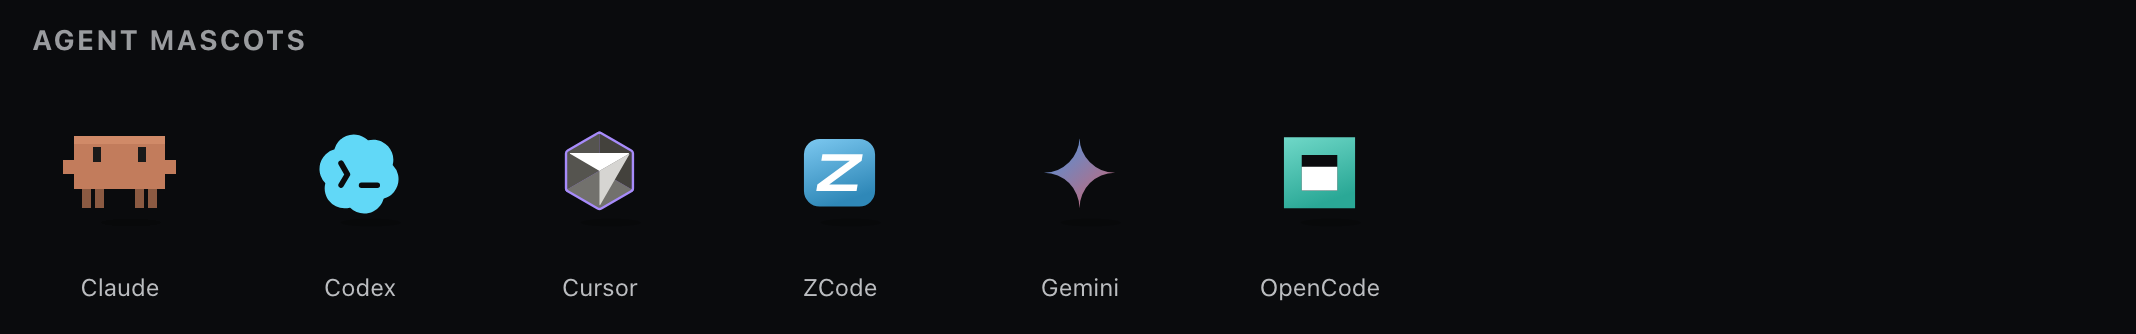
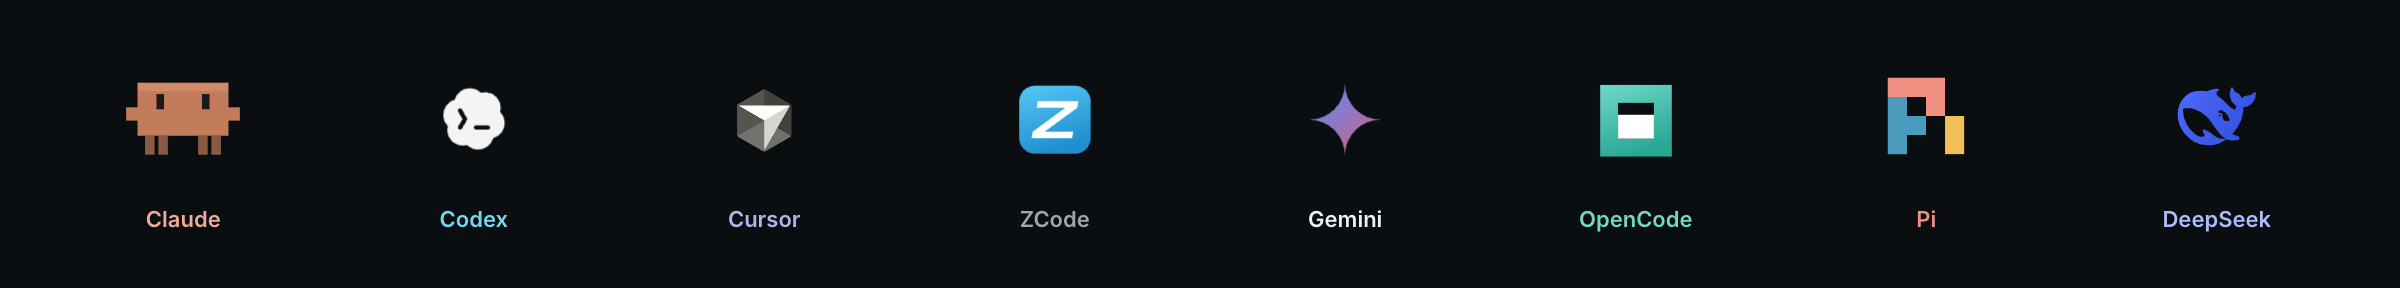
docs: add Pi and DeepSeek to website

diff --git a/docs/index.html b/docs/index.html
@@ -4,13 +4,13 @@
   <meta charset="UTF-8" />
   <meta name="viewport" content="width=device-width, initial-scale=1.0" />
   <title>Atoll — 菜单栏 AI 工作流浮岛</title>
-  <meta name="description" content="Atoll 住在 macOS 菜单栏 / Windows 顶栏，为 Claude Code、Codex、Cursor、ZCode、Gemini CLI 与 OpenCode 提供权限审批、审批规则引擎、通知提醒、Plan 模式交互、Subagent 追踪与 Token 用量统计。100% 本地，数据不出本机。" />
+  <meta name="description" content="Atoll 住在 macOS 菜单栏 / Windows 顶栏，为 Claude Code、Codex、Cursor、ZCode、Gemini CLI、OpenCode、Pi 与 DeepSeek Harness 带来本地 AI 工作流。支持能力因 Agent 而异。" />
   <meta name="theme-color" content="#0a0b0d" />
 
   <!-- Open Graph -->
   <meta property="og:type" content="website" />
   <meta property="og:title" content="Atoll — 菜单栏 AI 工作流浮岛" />
-  <meta property="og:description" content="本地 Coding Agent 工作流浮岛：权限审批、审批规则引擎、通知提醒、Plan 模式问答与构建确认、Subagent 追踪、Token 统计。支持 Claude Code / Codex / Cursor / ZCode / Gemini CLI / OpenCode。" />
+  <meta property="og:description" content="本地 Coding Agent 工作流浮岛。支持 Claude Code / Codex / Cursor / ZCode / Gemini CLI / OpenCode / Pi / DeepSeek Harness。" />
   <meta property="og:image" content="https://sheepbooy.github.io/Atoll/assets/hero.png" />
   <meta property="og:url" content="https://sheepbooy.github.io/Atoll/" />
 
@@ -24,12 +24,12 @@
   <link rel="preconnect" href="https://fonts.googleapis.com" />
   <link rel="preconnect" href="https://fonts.gstatic.com" crossorigin />
   <link href="https://fonts.googleapis.com/css2?family=Inter:wght@400;500;600;700;800&family=JetBrains+Mono:wght@400;500&display=swap" rel="stylesheet" />
-  <link rel="stylesheet" href="css/mascots.css?v=133d240e55" />
+  <link rel="stylesheet" href="css/mascots.css?v=pi-dsh-1" />
   <link rel="stylesheet" href="css/atoll-logo.css?v=5eb4b17fe2" />
-  <link rel="stylesheet" href="css/site.css?v=7dc29db49a" />
+  <link rel="stylesheet" href="css/site.css?v=pi-dsh-1" />
   <script defer src="js/atoll-logo.js?v=a7b0347ddb"></script>
   <script defer src="js/cursor-mascot.js?v=0d06122c97"></script>
-  <script defer src="js/agent-mascots.js?v=4aa9e142ea"></script>
+  <script defer src="js/agent-mascots.js?v=pi-dsh-1"></script>
   <script defer src="js/site.js?v=50ce54d311"></script>
 </head>
 <body>
@@ -88,7 +88,7 @@
         <noscript><p class="noscript-note">交互演示需要 JavaScript；下方可阅读全部功能与安装说明。</p></noscript>
       </div>
     </header>
-    <div class="container agent-strip"><span>与你熟悉的 Agent，一起工作</span><div><span>Claude Code</span><span>Codex</span><span>Cursor</span><span>ZCode</span><span>Gemini CLI</span><span>OpenCode</span></div></div>
+    <div class="container agent-strip"><span>与你熟悉的 Agent，一起工作</span><div><span>Claude Code</span><span>Codex</span><span>Cursor</span><span>ZCode</span><span>Gemini CLI</span><span>OpenCode</span><span>Pi</span><span>DeepSeek Harness</span></div></div>
     <section class="container section" id="features">
       <div class="section-heading reveal"><span class="section-label">01 / STAY IN FLOW</span><h2>工作向前，<br /><span class="muted">注意力不必来回。</span></h2><p>从一个权限请求，到一个完整计划。<br />浮岛把需要你的时刻，带到你眼前。</p></div>
       <div class="workflow-grid">
@@ -118,7 +118,7 @@
       </div>
       <details class="platform-detail"><summary>查看固定场景 CPU 对照 <span aria-hidden="true">+</span></summary><div class="detail-copy">同一台 Mac 每组预热 30 秒、采样 60 秒，折叠且无交互：空闲 0.893% → 0.302%，一个工作会话 3.888% → 0.367%，音乐播放与歌词启用 0.818% → 0.318%。CPU 为主进程与所属 WebKit 合计，100% 表示一个核心；音乐适配器另计约 0.075%。<br /><br />这是关闭后台维护、固定会话状态的受控对照。刘海屏折叠态不显示歌词，结果不能直接推算真实任务全程耗电或电池续航。<a class="text-link" href="https://github.com/sheepbooy/Atoll/blob/main/docs/energy-benchmark.md" target="_blank" rel="noopener">查看方法与原始数据 ↗</a></div></details>
     </section>
-    <section class="container section" id="agents"><div class="section-heading reveal"><span class="section-label">03 / BETTER TOGETHER</span><h2>你的 Agent，<br /><span class="muted">熟悉的工作方式。</span></h2><p>在应用内安装对应 Hook，即可接入。<br />每个 Agent 的支持能力，都清楚写在这里。</p></div><div class="agent-cards">
+    <section class="container section" id="agents"><div class="section-heading reveal"><span class="section-label">03 / BETTER TOGETHER</span><h2>你的 Agent，<br /><span class="muted">熟悉的工作方式。</span></h2><p>在应用内安装对应 Hook 或桥接，即可接入。<br />每个 Agent 的支持能力，都清楚写在这里。</p></div><div class="agent-cards">
           <article class="agent-card">
             <img src="assets/agent-claude.png" alt="Claude" width="48" height="48" />
             <div>
@@ -170,7 +170,15 @@
               <h3>OpenCode</h3>
               <p>Settings → Agent hooks → Install OpenCode。OpenCode 没有 hooks 配置文件——Atoll 在其插件目录部署进程内桥接插件；Atoll 不在线时 OpenCode 自带确认自动兜底。</p>
             </div>
-          </article></div><details class="platform-detail"><summary>开发版：确认真实连接 <span aria-hidden="true">+</span></summary><div class="detail-copy">安装后点击「验证连接」，按需信任 Hook 并重启对应 Agent，再发送消息或触发工具。新的真实事件才会点亮成功标记；旧活动不会自动完成验证，重新安装后需要重新验证。Atoll 自带 Node.js 运行时，系统没有 Node 也无需另行安装。</div></details><details class="setup-details"><summary>查看首次接入演示 <span>+</span></summary><div class="product-media"><img src="assets/setup.gif" alt="首次安装 Hook 的操作演示" loading="lazy" /><span class="media-fallback" hidden>首次安装 Hook 的操作演示</span></div></details></section>
+          </article>
+          <article class="agent-card">
+            <div class="agent-card-mascot" aria-hidden="true"><span class="mascot-slot" data-agent="pi"></span></div>
+            <div><h3>Pi（CLI）</h3><p>Settings → Agent hooks → Install Pi。全局扩展拦截 bash、write、edit 等工具，同步会话与 Token；安装后重启 Pi。Atoll 离线时交互界面询问，非交互模式默认拒绝。</p></div>
+          </article>
+          <article class="agent-card">
+            <div class="agent-card-mascot" aria-hidden="true"><span class="mascot-slot" data-agent="dsh"></span></div>
+            <div><h3>DeepSeek Harness（Web + Desktop）</h3><p>Settings → Agent hooks → Install DeepSeek Harness。桥接插件支持审批与会话状态，安装后重启 DSH；Atoll 离线时回退原生审批。Token、聊天记录与子 Agent 暂不支持。</p></div>
+          </article></div><details class="platform-detail"><summary>确认真实连接 <span aria-hidden="true">+</span></summary><div class="detail-copy">安装后点击「验证连接」，按需信任 Hook 并重启对应 Agent，再发送消息或触发工具。新的真实事件才会点亮成功标记；旧活动不会自动完成验证，重新安装后需要重新验证。Atoll 自带 Node.js 运行时，系统没有 Node 也无需另行安装。</div></details><details class="setup-details"><summary>查看首次接入演示 <span>+</span></summary><div class="product-media"><img src="assets/setup.gif" alt="首次安装 Hook 的操作演示" loading="lazy" /><span class="media-fallback" hidden>首次安装 Hook 的操作演示</span></div></details></section>
     <section class="container section" id="architecture"><div class="privacy-card reveal"><div><span class="section-label">LOCAL BY DESIGN</span><h2>你的工作，<br />留在你的电脑里。</h2><p>Agent、Hook 与浮岛通过本机桥接通信。<br />会话内容与审批数据留在本地。</p><div class="privacy-badges"><span>本地桥接</span><span>开源可审查</span><span>无追踪</span></div></div><div class="bridge-diagram" role="img" aria-label="Agent 通过 Hook 与本地 Bridge 通信，浮岛回传决定"><div class="bridge-node"><span>01</span><strong>Coding Agent</strong><small>发起事件</small></div><div class="bridge-connector">↓ <code>127.0.0.1:47777</code></div><div class="bridge-node"><span>02</span><strong>Hook → Local Bridge</strong><small>维护会话与工作状态</small></div><div class="bridge-connector">↓ <span>你的决定，原路返回</span></div><div class="bridge-node"><span>03</span><strong>Atoll Island</strong><small>审批 · 计划 · 任务</small></div></div></div><details class="platform-detail"><summary>了解本地工作原理 <span>+</span></summary><div class="detail-copy">Hook shim 写入 Agent 配置，通过 Node.js 向 Rust 本地 HTTP bridge 发送事件。浮岛读取会话、Subagent 与 Token 状态，再将你的决定回传 Agent。所有工作流数据在本机闭环；应用更新、安装下载等操作会访问网络。Atoll 不替代 Agent，也不上传会话内容。</div></details></section>
     <section class="container section" id="install"><div class="install-layout"><div class="section-heading reveal"><span class="section-label">04 / MAKE IT YOURS</span><h2>给顶栏，<br /><span class="muted">一个新的住客。</span></h2><p>一行命令安装，几步完成接入。<br />下一次 Agent 需要你，浮岛就在那里。</p><a class="text-link" href="https://github.com/sheepbooy/Atoll/releases" target="_blank" rel="noopener">从 Releases 手动下载 <svg viewBox="0 0 24 24" fill="none" stroke="currentColor" stroke-width="1.6" stroke-linecap="round" stroke-linejoin="round" aria-hidden="true"><path d="M7 17 17 7M7 7h10v10"/></svg></a></div><div class="install-panel reveal">
         <div class="install-tabs" role="tablist">
@@ -311,6 +319,14 @@
             <figure class="agent-mascot-card" data-agent="opencode">
               <div class="agent-mascot-slot" data-agent="opencode"></div>
               <figcaption>OpenCode</figcaption>
+            </figure>
+            <figure class="agent-mascot-card" data-agent="pi">
+              <div class="agent-mascot-slot" data-agent="pi"></div>
+              <figcaption>Pi</figcaption>
+            </figure>
+            <figure class="agent-mascot-card" data-agent="dsh">
+              <div class="agent-mascot-slot" data-agent="dsh"></div>
+              <figcaption>DeepSeek</figcaption>
             </figure>
           </div>
         </div></div></section>

diff --git a/docs/css/site.css b/docs/css/site.css
@@ -231,7 +231,7 @@ details[open]>summary { color:var(--text-primary); }details[open]>summary>span {
 .battery-glyph>svg { width:18px; height:18px; transform:none; }
 .battery-ring figcaption { font-size:10px; color:var(--text-tertiary); text-align:center; }.battery-ring figcaption strong { display:block; color:var(--text-secondary); font-size:11px; font-weight:500; }
 .everyday-utilities { margin-top:18px; }
-.agent-cards { display:grid; grid-template-columns:repeat(3,minmax(0,1fr)); gap:16px; }
+.agent-cards { display:grid; grid-template-columns:repeat(4,minmax(0,1fr)); gap:16px; }
 .agent-card { min-width:0; border:1px solid var(--border-subtle); border-radius:13px; background:#ffffff02; padding:26px; }
 .agent-card>img,.agent-card-mascot { width:40px; height:40px; object-fit:contain; margin-bottom:20px; }
 .agent-card-mascot { display:flex; align-items:center; justify-content:center; }
@@ -261,7 +261,7 @@ details[open]>summary { color:var(--text-primary); }details[open]>summary>span {
 .atoll-logo-slot { display:inline-flex; width:96px; height:96px; align-items:center; justify-content:center; }.atoll-logo-slot .atoll-logo { width:100%; height:100%; }.atoll-logo-slot svg { width:100%; height:100%; }
 .state-item>.label { font-size:12px; margin-top:5px; }.state-item>.desc { text-align:center; color:var(--text-tertiary); font-size:9px; margin-top:5px; }
 .egg-grid { margin-top:12px; grid-template-columns:repeat(6,minmax(0,1fr)); }.egg-grid .state-item { padding:12px 8px 20px; }.egg-grid .state-mascot { width:86px; height:86px; }
-.mascots { margin-top:30px; }.agent-mascot-grid { padding:25px; display:grid; grid-template-columns:repeat(6,minmax(0,1fr)); gap:12px; margin-bottom:0; background:none; border:0; }.agent-mascot-card { min-width:0; }.agent-mascot-card figcaption { color:var(--text-secondary); font-size:11px; }.agent-mascot-slot { width:72px; height:65px; }.agent-mascot-slot>span { width:100% !important; height:100% !important; }.agent-mascot-slot svg { width:100%; height:100%; }
+.mascots { margin-top:30px; }.agent-mascot-grid { padding:25px; display:grid; grid-template-columns:repeat(8,minmax(0,1fr)); gap:12px; margin-bottom:0; background:none; border:0; }.agent-mascot-card { min-width:0; }.agent-mascot-card figcaption { color:var(--text-secondary); font-size:11px; }.agent-mascot-slot { width:72px; height:65px; }.agent-mascot-slot>span { width:100% !important; height:100% !important; }.agent-mascot-slot svg { width:100%; height:100%; }
 .updates-section { border-top:1px solid var(--border-subtle); }.updates-heading { display:flex; flex-wrap:wrap; align-items:center; gap:12px 22px; }.updates-heading .section-label { width:100%; margin-bottom:0; }.updates-heading h2 { font-size:30px; }.updates-heading p { color:var(--text-tertiary); font-size:11px; }.updates-heading .text-link { margin:0 0 0 auto; }
 .updates-grid { display:grid; grid-template-columns:repeat(3,minmax(0,1fr)); gap:40px; margin-top:35px; }.updates-grid article>span { font-size:20px; color:var(--mint); }.updates-grid h3 { margin-top:14px; font-size:14px; font-weight:500; }.updates-grid p { margin-top:10px; font-size:12px; color:var(--text-secondary); }
 .closing-cta { padding:45px 0 96px; display:flex; flex-direction:column; align-items:center; text-align:center; }.closing-cta>.atoll-logo-slot { width:100px; height:100px; }.closing-cta h2 { font-size:48px; line-height:1.3; margin-top:18px; }.closing-cta h2>span { color:var(--accent-cyan); }.closing-cta>.btn { margin-top:30px; }.closing-cta>p { font-size:11px; color:var(--text-tertiary); margin-top:18px; }
@@ -290,7 +290,7 @@ details[open]>summary { color:var(--text-primary); }details[open]>summary>span {
   .workflow-main { gap:24px; padding:30px; }.workflow-main h3 { font-size:32px; }.workflow-card { padding:26px; }.art-panel { padding:20px; }.workflow-main p { font-size:12px; }
   .everyday-showcase { grid-template-columns:1fr; }.everyday-side { grid-template-columns:1fr 1fr; }.everyday-main .product-media img { max-height:340px; }.music-showcase { padding:26px; }.music-art { display:none; }.music-showcase details { margin-right:0; }.battery-showcase { padding:26px; }.battery-preview { gap:20px; }
   .privacy-card { gap:28px; padding:30px; }.privacy-card h2 { font-size:32px; }.install-layout { grid-template-columns:1fr; gap:8px; }.install-layout .section-heading { margin-bottom:25px; }
-  .egg-grid { grid-template-columns:repeat(3,minmax(0,1fr)); }.agent-mascot-grid { gap:6px; padding:20px 0; }.agent-mascot-slot { width:60px; height:54px; }
+  .egg-grid { grid-template-columns:repeat(3,minmax(0,1fr)); }.agent-mascot-grid { grid-template-columns:repeat(4,minmax(0,1fr)); gap:22px 6px; padding:20px 0; }.agent-mascot-slot { width:60px; height:54px; }
 }
 @media (max-width:640px) {
   :root { --nav-height:64px; }.container { width:calc(100% - 40px); }.nav-inner { gap:12px; }.nav-brand { font-size:18px; gap:9px; }.nav-actions { gap:8px; }.nav-toggle { display:block; }.nav-actions>.btn { font-size:11px; padding:7px 11px; }
@@ -301,7 +301,7 @@ details[open]>summary { color:var(--text-primary); }details[open]>summary>span {
   .section { padding-block:64px; }.section-label { font-size:9px; margin-bottom:18px; }h2 { font-size:31px; letter-spacing:-1px; }.section-heading { margin-bottom:30px; }.section-heading>p { font-size:12px; margin-top:18px; }.workflow-grid,.utility-grid,.agent-cards,.everyday-side { grid-template-columns:1fr; }.workflow-main { grid-column:auto; display:flex; flex-direction:column; align-items:stretch; gap:28px; }.workflow-card { padding:26px; border-radius:14px; }.workflow-main h3 { font-size:30px; }.workflow-card h3 { font-size:25px; }.workflow-card p { font-size:12px; }.approval-art { margin:0; }.art-island-bar { padding:12px 15px; }.art-panel { padding:18px; }.art-panel>code { font-size:11px; }.art-actions { gap:6px; }.art-actions>span { font-size:10px; }.workflow-footnote { justify-content:start; gap:10px; font-size:10px; }.platform-detail>summary { justify-content:start; font-size:10px; }.subsection-heading { margin-top:40px; }.subsection-heading h3 { font-size:18px; }.subsection-heading p { font-size:11px; }.utility-card { padding:23px; }.utility-icon { margin-bottom:16px; }
   .everyday-main,.music-showcase,.battery-showcase { padding:25px; }.everyday-main h3,.everyday-side h3 { font-size:22px; }.product-media { padding:12px; }.everyday-main .product-media img { max-height:300px; }.music-art { display:flex; right:25px; top:25px; }.music-showcase h3 { padding-right:35px; font-size:21px; }.music-showcase .feature-number { font-size:8px; }.music-showcase p { padding-right:48px; }.battery-preview { gap:42px; }.everyday-utilities { margin-top:18px; }
   .agent-card { padding:24px; }.agent-card h3 { font-size:14px; }.agent-card p { font-size:12px; }.privacy-card { grid-template-columns:1fr; padding:28px; gap:30px; }.privacy-card h2 { font-size:30px; }.privacy-card p { font-size:12px; margin-top:18px; }.privacy-badges { gap:7px; }.privacy-badges span { font-size:9px; }.bridge-diagram { margin:0; max-width:none; }.install-body { padding:20px; }.code-block { padding-right:86px; }.code-block code { font-size:9px; }.install-pane>.install-note { font-size:10px; }
-  .state-grid { grid-template-columns:repeat(2,minmax(0,1fr)); gap:10px; }.egg-grid { grid-template-columns:repeat(2,minmax(0,1fr)); }.state-item { padding-bottom:20px; }.state-item>.desc { font-size:8px; }.agent-mascot-grid { grid-template-columns:repeat(3,minmax(0,1fr)); gap:26px 10px; padding-block:15px; }.agent-mascot-slot { width:72px; height:65px; }
+  .state-grid { grid-template-columns:repeat(2,minmax(0,1fr)); gap:10px; }.egg-grid { grid-template-columns:repeat(2,minmax(0,1fr)); }.state-item { padding-bottom:20px; }.state-item>.desc { font-size:8px; }.agent-mascot-grid { grid-template-columns:repeat(4,minmax(0,1fr)); gap:24px 6px; padding-block:15px; }.agent-mascot-slot { width:60px; height:54px; }
   .updates-heading { display:block; }.updates-heading h2 { margin-top:16px; font-size:28px; }.updates-heading p { margin-top:12px; }.updates-heading .text-link { margin-top:16px; }.updates-grid { grid-template-columns:1fr; gap:25px; }.updates-grid article { display:grid; grid-template-columns:25px 1fr; column-gap:15px; }.updates-grid article>span { grid-row:span 2; }.updates-grid h3 { margin-top:0; }.updates-grid p { margin-top:7px; }.closing-cta { padding:0 0 64px; }.closing-cta h2 { font-size:36px; }.closing-cta>p { font-size:10px; }
   .footer { flex-wrap:wrap; gap:18px; padding-block:26px; }.footer>p { margin-left:auto; font-size:9px; }.footer>div { width:100%; margin:0; gap:24px; }
 }

diff --git a/docs/js/agent-mascots.js b/docs/js/agent-mascots.js
@@ -27,6 +27,8 @@
       type: "opencode",
       mood: "calm",
     },
+    pi: { type: "mark", src: "assets/agent-pi.svg", mood: "calm" },
+    dsh: { type: "mark", src: "assets/agent-dsh.svg", mood: "calm" },
   };
 
   function slotMascotSize(slot) {
@@ -212,6 +214,10 @@
     const config = AGENTS[agentId];
     if (!config) return "";
     const mood = moodOverride || config.mood;
+
+    if (config.type === "mark") {
+      return `<img class="site-agent-mark site-agent-mark--${agentId}" src="${config.src}" alt="" />`;
+    }
 
     if (config.type === "cursor" && window.AtollCursorMascot) {
       return window.AtollCursorMascot.render(mood, size || 79);

diff --git a/docs/css/mascots.css b/docs/css/mascots.css
@@ -340,3 +340,21 @@
 .agent-mascot-card[data-agent="opencode"] figcaption {
   color: #70d8c8;
 }
+
+/* The Pi and DeepSeek marks reuse the same vector artwork as the app. */
+.mascot-slot .site-agent-mark,
+.agent-mascot-slot .site-agent-mark {
+  display: block;
+  width: 100%;
+  height: 100%;
+  object-fit: contain;
+}
+
+.mascot-slot .site-agent-mark--dsh,
+.agent-mascot-slot .site-agent-mark--dsh {
+  width: 62%;
+  height: 62%;
+}
+
+.agent-mascot-card[data-agent="pi"] figcaption { color: #f09082; }
+.agent-mascot-card[data-agent="dsh"] figcaption { color: #aebcff; }
